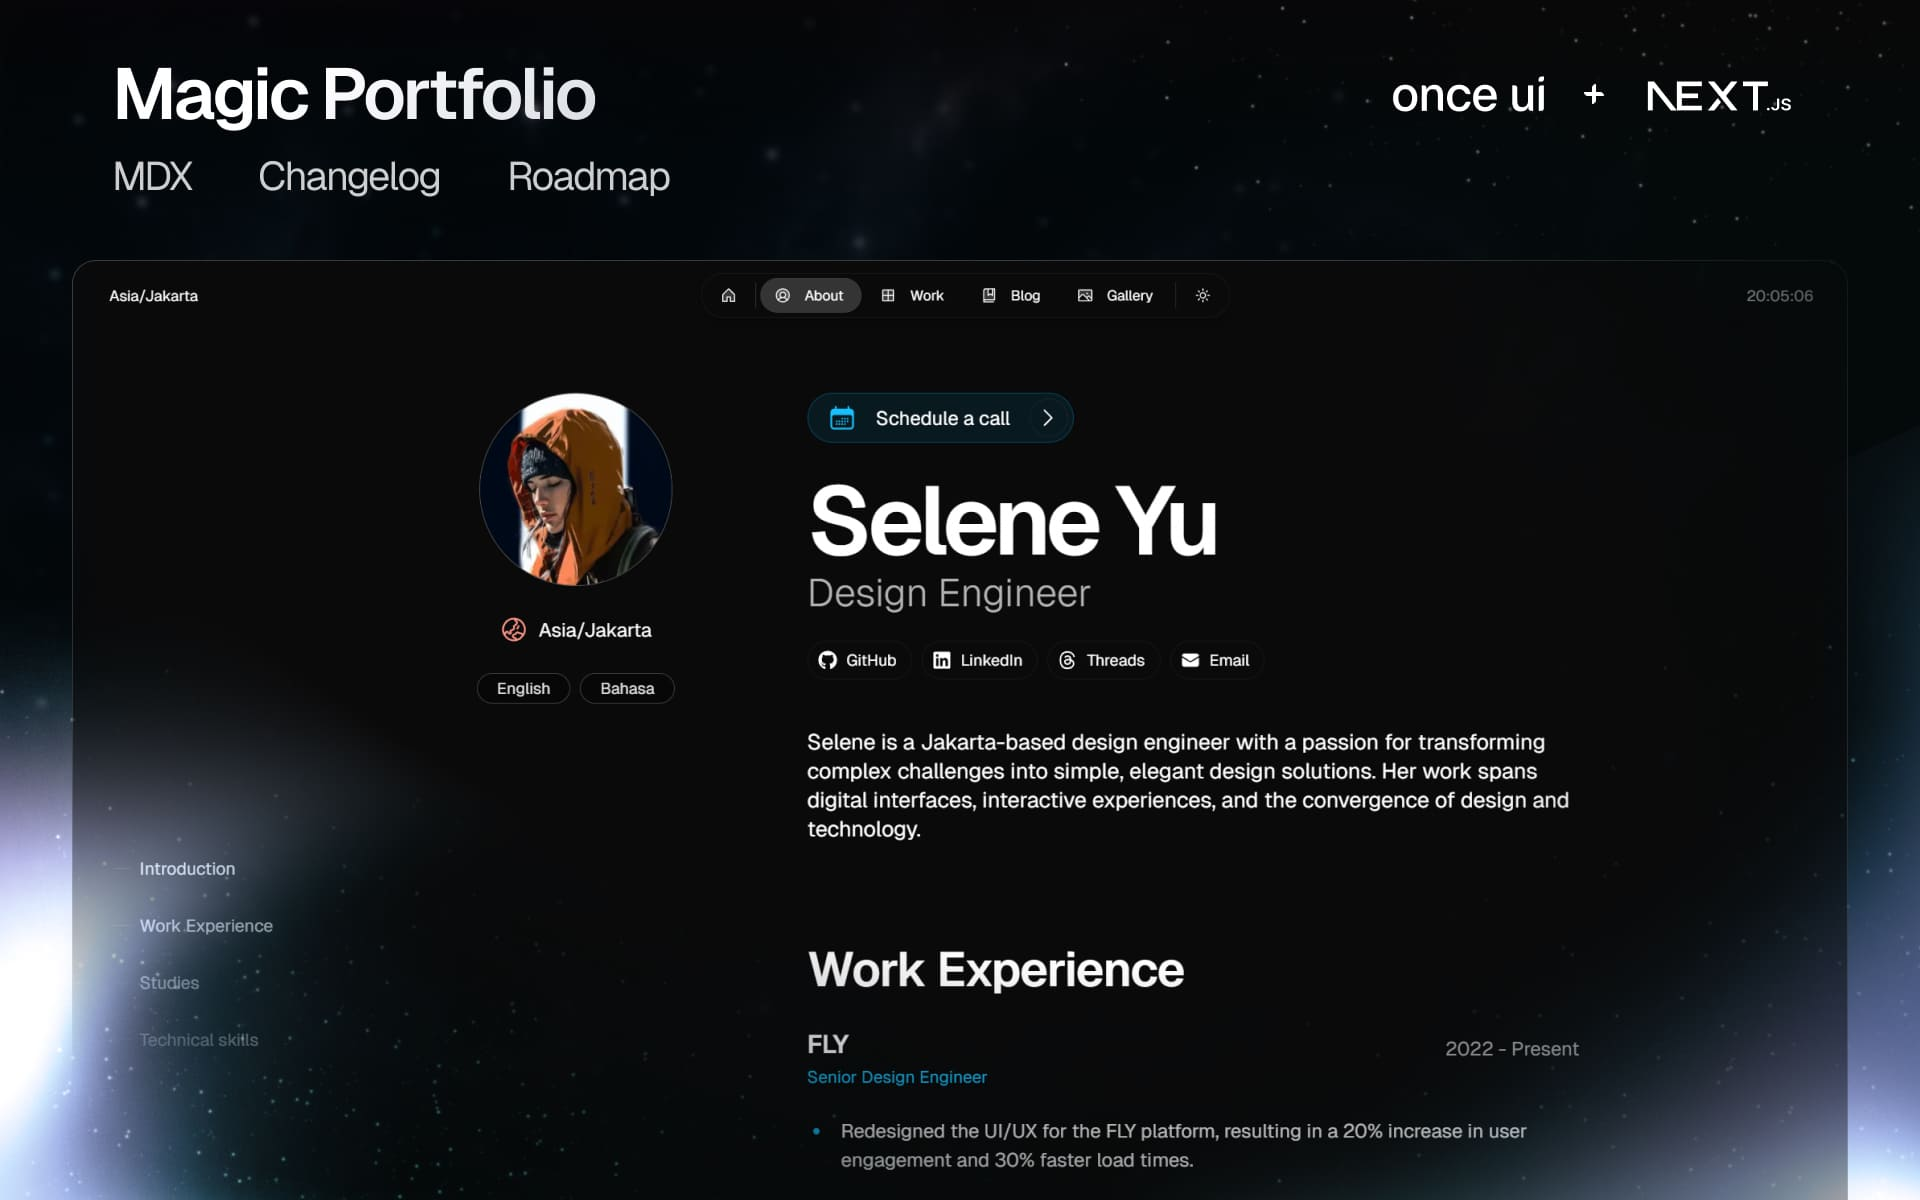
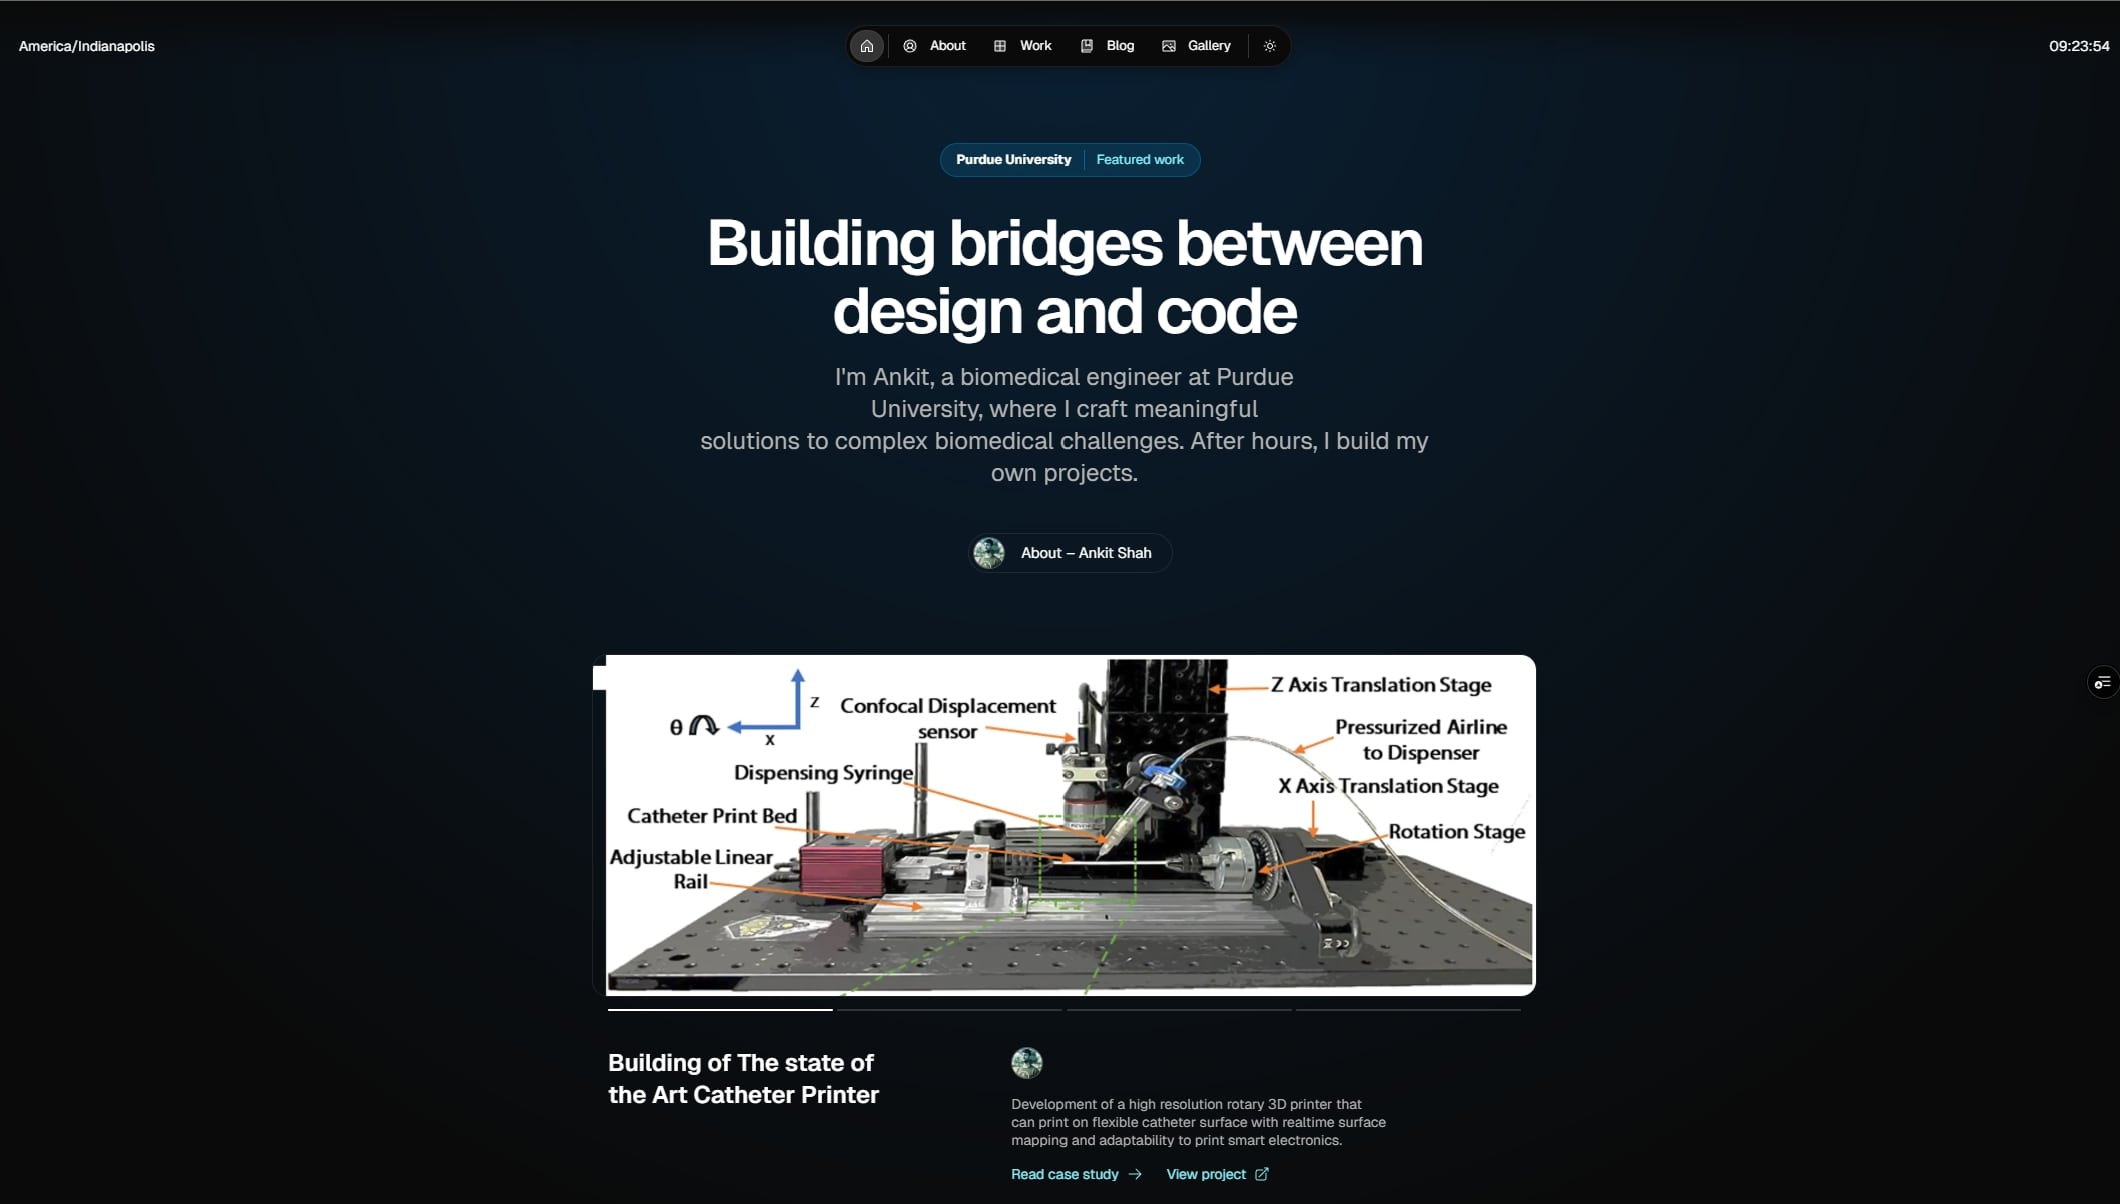
December 8 vesion8

diff --git a/src/components/Header.tsx b/src/components/Header.tsx
@@ -185,7 +185,7 @@ export const Header = () => {
           >
             <Flex s={{ hide: true }}>
               {display.time && <TimeDisplay timeZone={person.location} />}
-            </Flex>
+            </Flex>b
           </Flex>
         </Flex>
       </Row>
